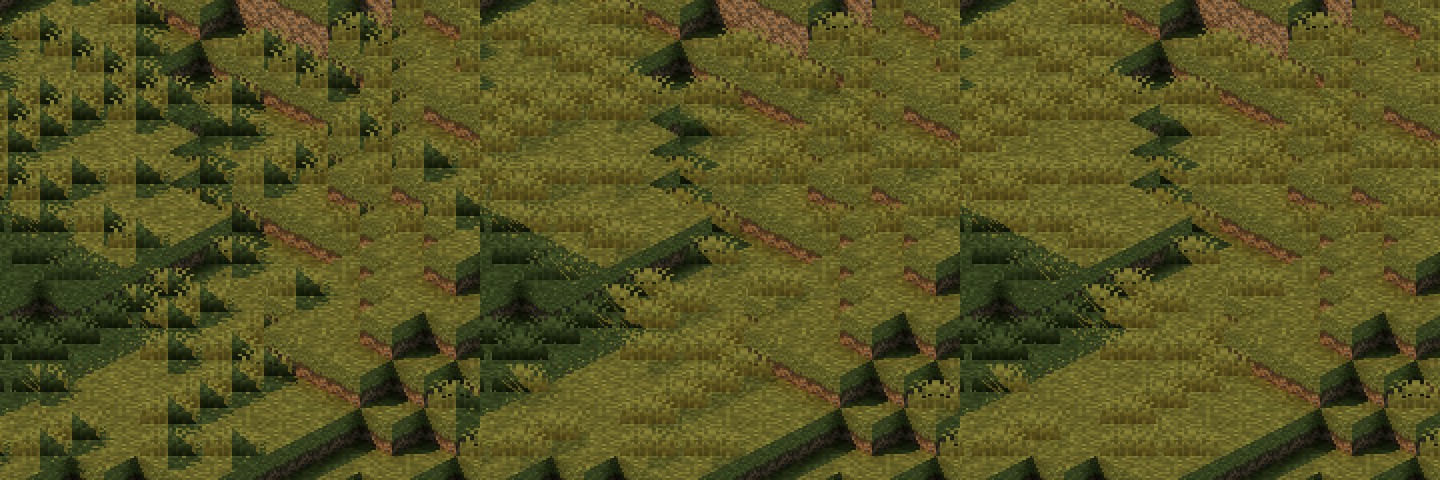
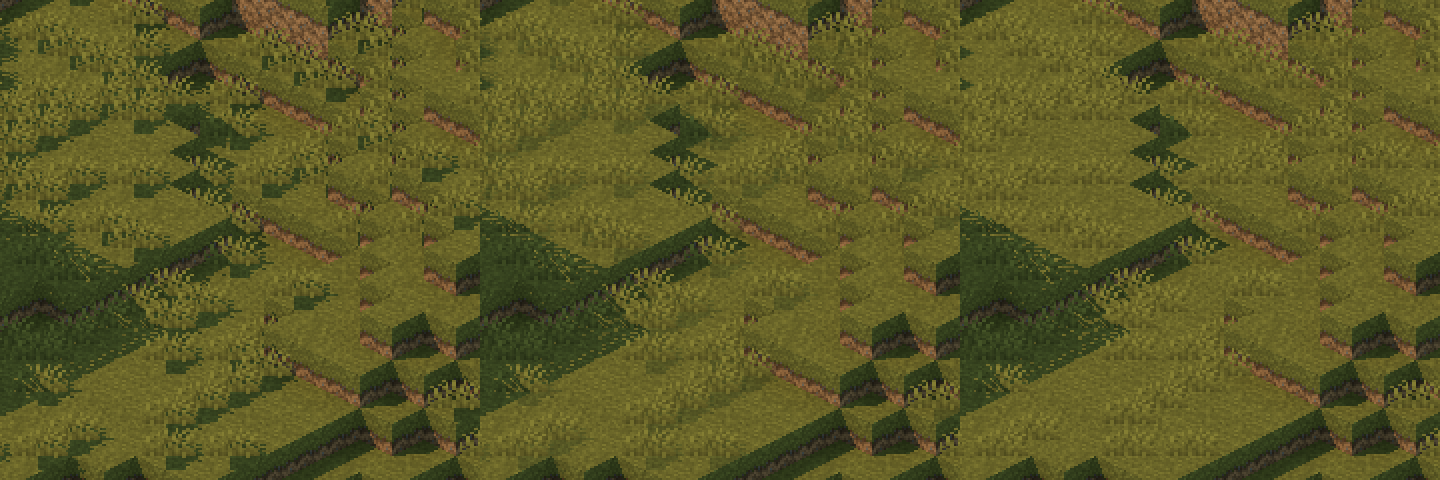
Bilder zu 0058 aus dem Renderer
Wärme nach Biom und Bodenpflanzen rendert jetzt der Renderer mit
Cinematic aus #73, statt des Prototyps zu #89: ein ignorierter Test in
kennzahlen.rs mit Szenen, Ausschnitten und Werten, ein zweiter Lauf
ändert kein Byte. Die Quelle als JSON entfällt. README und map.json
nennen den Stand von #73.

diff --git a/renderer/tests/kennzahlen.rs b/renderer/tests/kennzahlen.rs
@@ -1,20 +1,24 @@
 //! Die Ansichten der Testwelt, an denen 0058 abgestimmt ist, mit Cinematic
 //! und als Karte, dazu je Pixel, was die Kennzahlen des Looks brauchen: ob
 //! die Sonne ihn trifft, ob er leuchtet oder im Bloom liegt, ob seine
-//! vorderste Fläche deckt, ihr Block und ihre Seite. Braucht die Testwelt
-//! und die Assets, deshalb `#[ignore]`. Aufruf und Auswertung:
-//! docs/messungen/2026-10-03-look-am-renderer.md.
+//! vorderste Fläche deckt, ihr Block und ihre Seite. Dazu die Bilder zu
+//! 0058 in `docs/bilder`. Braucht die Testwelt und die Assets, deshalb
+//! `#[ignore]`. Aufruf und Auswertung:
+//! docs/messungen/2026-10-03-look-am-renderer.md; die Bilder:
+//! skills/doku-bilder-rendern/SKILL.md.
 
 use std::collections::HashMap;
 use std::path::{Path, PathBuf};
 
+use image::RgbaImage;
+use image::imageops::{FilterType, crop_imm, replace, resize};
 use rayon::prelude::*;
 use terranova_render::assets::Assets;
 use terranova_render::render::look::{LOOK, Look};
 use terranova_render::render::metatile::{Hdr, render_hdr_with};
 use terranova_render::render::{
-    BiomeTable, ChunkCache, Kamera, Projection, Richtung, ScreenRect, SpriteSet, render_area,
-    survey,
+    BiomeTable, ChunkCache, Kamera, Projection, Richtung, ScreenRect, SpriteSet, Survey,
+    encode_webp, render_area, shrink, survey,
 };
 use terranova_render::world::World;
 
@@ -45,13 +49,17 @@ fn ansichten(
     ]
 }
 
+fn wurzel() -> PathBuf {
+    PathBuf::from(
+        std::env::var("KENNZAHLEN_WURZEL")
+            .expect("KENNZAHLEN_WURZEL auf die Wurzel mit world und den Assets setzen"),
+    )
+}
+
 #[test]
 #[ignore]
 fn kennzahlen_der_ansichten() {
-    let wurzel = PathBuf::from(
-        std::env::var("KENNZAHLEN_WURZEL")
-            .expect("KENNZAHLEN_WURZEL auf die Wurzel mit world und den Assets setzen"),
-    );
+    let wurzel = wurzel();
     let aus = PathBuf::from(
         std::env::var("KENNZAHLEN_AUS").expect("KENNZAHLEN_AUS auf den Zielordner setzen"),
     );
@@ -69,6 +77,133 @@ fn kennzahlen_der_ansichten() {
         alle.par_iter()
             .for_each(|&(szene, ansicht)| schreibe(&wurzel, &aus, szene, ansicht));
     });
+}
+
+/// Die Bilder unter 0058: die Wärme nach Biom an Hügel und Schnee, die
+/// Bodenpflanzen an einer Wiese des Hügels, je 2:1 bei 32 aus `se`, mit
+/// der Mitte der Szene in der Bildmitte; Ausschnitte wie am Prototyp zu
+/// #89, als WebP verlustfrei.
+#[test]
+#[ignore]
+fn bilder_zu_0058() {
+    let wurzel = wurzel();
+    let ziel = Path::new(env!("CARGO_MANIFEST_DIR")).join("../docs/bilder");
+    let szene = |name: &str| {
+        let &(_, mitte) = SZENEN.iter().find(|(s, _)| *s == name).unwrap();
+        Szene::new(&wurzel, "2:1", 32, "se", ansichten(mitte)[0].4)
+    };
+    // Je Zeile die Karte, Weissabgleich 1 und nach Biom; 800 Pixel ab
+    // (400, 400), auf die Hälfte verkleinert wie die Pyramide.
+    let mut waerme = RgbaImage::new(1200, 800);
+    for (zeile, name) in ["huegel", "schnee"].into_iter().enumerate() {
+        let mut s = szene(name);
+        let looks = [
+            None,
+            Some(Look {
+                waerme: 0.0,
+                ..LOOK
+            }),
+            Some(LOOK),
+        ];
+        for (spalte, look) in looks.into_iter().enumerate() {
+            let teil = shrink(&crop_imm(&s.bild(look), 400, 400, 800, 800).to_image());
+            replace(&mut waerme, &teil, spalte as i64 * 400, zeile as i64 * 400);
+        }
+    }
+    std::fs::write(
+        ziel.join("cinematic-waerme.webp"),
+        encode_webp(&waerme).unwrap(),
+    )
+    .unwrap();
+    // Hart, weich mit 0,5 und ohne Sonnenschatten der Bodenpflanzen, nach
+    // Biom gewärmt; 240 Pixel ab (700, 700), zweifach vergrössert ohne
+    // Glättung.
+    let mut pflanzen = RgbaImage::new(1440, 480);
+    let mut s = szene("huegel");
+    for (spalte, p) in [0.0, 0.5, 1.0].into_iter().enumerate() {
+        let bild = s.bild(Some(Look {
+            pflanzen: p,
+            ..LOOK
+        }));
+        let teil = resize(
+            &crop_imm(&bild, 700, 700, 240, 240).to_image(),
+            480,
+            480,
+            FilterType::Nearest,
+        );
+        replace(&mut pflanzen, &teil, spalte as i64 * 480, 0);
+    }
+    std::fs::write(
+        ziel.join("cinematic-pflanzen.webp"),
+        encode_webp(&pflanzen).unwrap(),
+    )
+    .unwrap();
+}
+
+/// Eine Ansicht: Welt, Assets und Ausschnitt, wie `--render` mit `--center`
+/// und `--size`.
+struct Szene {
+    world: World,
+    assets: Assets,
+    projection: Projection,
+    rect: ScreenRect,
+    survey: Survey,
+    biome: BiomeTable,
+}
+
+impl Szene {
+    fn new(wurzel: &Path, kamera: &str, scale: u32, richtung: &str, mitte: [i32; 2]) -> Szene {
+        let world = World::open(&wurzel.join("world")).unwrap();
+        let mut assets =
+            Assets::open(vec![wurzel.join("vanilla-assets"), wurzel.join("assets")]).unwrap();
+        assets.load_data(&wurzel.join("vanilla-data")).unwrap();
+        assets.set_dimension(world.dimension());
+        let kamera = Kamera::parse(kamera).unwrap();
+        let projection =
+            Projection::mit_kamera(scale, kamera).aus(Richtung::parse(richtung, kamera).unwrap());
+        let rect = fenster(projection, mitte);
+        let survey = survey(&world, projection, Y_RANGE, Some(rect)).unwrap();
+        let biome = BiomeTable::new(assets.colors()).with(2, world.seed().unwrap());
+        Szene {
+            world,
+            assets,
+            projection,
+            rect,
+            survey,
+            biome,
+        }
+    }
+
+    /// Die Sprites mit `look`; ohne ist es die Karte.
+    fn tabelle(&mut self, look: Option<Look>) -> SpriteSet {
+        let mut sprites = SpriteSet::build_mit_licht(
+            &mut self.assets,
+            &self.survey.states,
+            self.projection,
+            None,
+            look,
+        )
+        .unwrap();
+        sprites
+            .add_entities(&mut self.assets, &self.survey.entities)
+            .unwrap();
+        sprites.set_biomes(self.biome.clone());
+        sprites
+    }
+
+    fn bild(&mut self, look: Option<Look>) -> RgbaImage {
+        let sprites = self.tabelle(look);
+        render_area(&self.world, &sprites, self.rect, Y_RANGE).unwrap()
+    }
+
+    fn hdr(&self, sprites: &SpriteSet) -> Hdr {
+        render_hdr_with(
+            &mut ChunkCache::new(&self.world, sprites),
+            self.rect,
+            Y_RANGE,
+        )
+        .unwrap()
+    }
 }
 
 /// Wie `--render` mit `--center` und `--size`.
@@ -89,48 +224,27 @@ fn schreibe(
     szene: &str,
     (name, kamera, scale, richtung, mitte): (&str, &str, u32, &str, [i32; 2]),
 ) {
-    let world = World::open(&wurzel.join("world")).unwrap();
-    let mut assets =
-        Assets::open(vec![wurzel.join("vanilla-assets"), wurzel.join("assets")]).unwrap();
-    assets.load_data(&wurzel.join("vanilla-data")).unwrap();
-    assets.set_dimension(world.dimension());
-    let kamera = Kamera::parse(kamera).unwrap();
-    let projection =
-        Projection::mit_kamera(scale, kamera).aus(Richtung::parse(richtung, kamera).unwrap());
-    let rect = fenster(projection, mitte);
-    let survey = survey(&world, projection, Y_RANGE, Some(rect)).unwrap();
-    let biome = BiomeTable::new(assets.colors()).with(2, world.seed().unwrap());
-    let mut tabelle = |look: Option<Look>| {
-        let mut sprites =
-            SpriteSet::build_mit_licht(&mut assets, &survey.states, projection, None, look)
-                .unwrap();
-        sprites.add_entities(&mut assets, &survey.entities).unwrap();
-        sprites.set_biomes(biome.clone());
-        sprites
-    };
+    let mut s = Szene::new(wurzel, kamera, scale, richtung, mitte);
     let datei = |endung: &str| aus.join(format!("{szene}-{name}{endung}"));
-    render_area(&world, &tabelle(None), rect, Y_RANGE)
-        .unwrap()
-        .save(datei("-karte.png"))
-        .unwrap();
-    let kino = tabelle(Some(LOOK));
-    render_area(&world, &kino, rect, Y_RANGE)
+    s.bild(None).save(datei("-karte.png")).unwrap();
+    let kino = s.tabelle(Some(LOOK));
+    render_area(&s.world, &kino, s.rect, Y_RANGE)
         .unwrap()
         .save(datei(".png"))
         .unwrap();
-    let hdr = |sprites: &SpriteSet| {
-        render_hdr_with(&mut ChunkCache::new(&world, sprites), rect, Y_RANGE).unwrap()
-    };
-    let mit = hdr(&kino);
-    let ohne_sonne = hdr(&tabelle(Some(Look { sonne: 0.0, ..LOOK })));
-    let ohne_schatten = hdr(&tabelle(Some(Look {
+    let mit = s.hdr(&kino);
+    let ohne_sonne = s.tabelle(Some(Look { sonne: 0.0, ..LOOK }));
+    let ohne_sonne = s.hdr(&ohne_sonne);
+    let ohne_schatten = s.tabelle(Some(Look {
         sonne_weite: -1.0,
         ..LOOK
-    })));
+    }));
+    let ohne_schatten = s.hdr(&ohne_schatten);
+    let (projection, rect) = (s.projection, s.rect);
     let k = kino.kino().unwrap();
     let bloom = k.bloom(&mit.leuchten, &mit.waerme, GROESSE as usize, scale);
     let lum = |c: &[f32]| 0.2126 * c[0] + 0.7152 * c[1] + 0.0722 * c[2];
-    let mut bloeck = Bloecke::new(&world);
+    let mut bloeck = Bloecke::new(&s.world);
     let mut familien: Vec<String> = Vec::new();
     let mut index: HashMap<String, u32> = HashMap::new();
     let (mut sonne, mut seite, mut deckt, mut leuchtet, mut im_bloom, mut familie) = (

diff --git a/skills/doku-bilder-rendern/SKILL.md b/skills/doku-bilder-rendern/SKILL.md
@@ -29,7 +29,7 @@ Testwelt liegt unter `./world`, die Assets wie in
    | `genordet.webp` | dasselbe Dorf in `top-north` und `north-45` nebeneinander, ebenso, `GENORDET` |
    | `web/public/vorschau.jpg`, `favicon.png`, `apple-touch-icon.png` | [`web-bilder.py`](web-bilder.py): die Mitte von `welt.webp` auf 1200 × 630, die Icons aus der Ebene „Insel“ des Banners, siehe Schritt 3 |
    | `sprites.png` | der Befehl in [`docs/benutzung/schalter.md`](../../docs/benutzung/schalter.md), „Sprites rastern: `--sprite`“ |
-   | `cinematic-waerme.webp`, `cinematic-pflanzen.webp` | nicht aus diesem Skript: aus dem Prototyp zu #89, der nicht im Repository liegt; Szenen, Ausschnitte und Werte in [`quellen/cinematic-look.json`](../../docs/bilder/quellen/cinematic-look.json). Mit #73 aus dem Renderer neu |
+   | `cinematic-waerme.webp`, `cinematic-pflanzen.webp` | nicht aus diesem Skript: Der Test `bilder_zu_0058` in [`renderer/tests/kennzahlen.rs`](../../renderer/tests/kennzahlen.rs) schreibt sie, mit Szenen, Ausschnitten und Werten: `KENNZAHLEN_WURZEL="$PWD" cargo test --release --manifest-path renderer/Cargo.toml --test kennzahlen bilder_zu_0058 -- --ignored` |
 
    Liegen `world/` und die Assets nicht in der Wurzel, nennt ein zweites
    Argument ihren Ordner.

diff --git a/docs/entscheidungen/0058-look-von-cinematic.md b/docs/entscheidungen/0058-look-von-cinematic.md
@@ -94,9 +94,13 @@ Schnee von oben und schräg von Norden und das Dorf aus `n`; siehe
 ![Eine Wiese der Savanne: Bodenpflanzen mit hartem, mit weichem und ohne Sonnenschatten](../bilder/cinematic-pflanzen.webp)
 
 - **Bild darunter:** eine Wiese der Savanne, zweifach vergrössert.
-  Bodenpflanzen mit hartem Schatten, mit weichem (0,5) und ohne.
-- **Herkunft:** Beide Bilder stammen aus dem Prototyp zu #89. Quelle in
-  [`cinematic-look.json`](../bilder/quellen/cinematic-look.json).
+  Bodenpflanzen mit hartem Schatten (`pflanzen` 0), mit weichem (0,5) und
+  ohne (1).
+- **Herkunft:** Beide Bilder rendert der Renderer mit Cinematic aus #73,
+  der Test `bilder_zu_0058` in
+  [`renderer/tests/kennzahlen.rs`](../../renderer/tests/kennzahlen.rs).
+  Zur Entscheidung lagen dieselben Ausschnitte aus dem Prototyp zu #89
+  vor.
 
 ## Verworfene Alternativen
 

diff --git a/README.md b/README.md
@@ -116,7 +116,8 @@ Alle Schalter: [Schalter und Beispiele](docs/benutzung/schalter.md).
 - Truhen, Banner, Köpfe, Krüge und die übrigen Blockentities aus den
   Modellen des Spiels, mit Bannermustern und Scherben.
 - Cinematic mit `--cinematic`: dieselbe Karte im Licht des Spiels in HDR,
-  Phase 1, siehe [Cinematic](docs/renderer/cinematic.md).
+  mit Sonne und Schatten, Wasser, Leuchten, Wärme nach Biom und Bloom,
+  siehe [Cinematic](docs/renderer/cinematic.md).
 - Noch nicht: Text auf Schildern und Gegenstände in Blöcken, weiche
   Beleuchtung für Flächen im Innern eines Blocks, etwa auf Schneedecken.
 

diff --git a/docs/benutzung/map-json.md b/docs/benutzung/map-json.md
@@ -330,7 +330,8 @@ vor #72 und zeigt die Karte. Einen anderen Wert nimmt kein Lauf an.
     bei einer Farbe drei Zahlen.
   - Zuletzt `verfahren`, ein Nullbyte und `VERFAHREN` als u32 in Little
     Endian: der Stand des Verfahrens. Ändert sich das Bild bei gleichen
-    Werten, etwa mit der Sonne in #73, steigt er, und mit ihm der
+    Werten, etwa in #73 mit der Farbe des Himmels über das Quadrat der
+    Biome, steigt er, und mit ihm der
     Fingerabdruck.
   - `Look::werte` zerlegt `Look` ganz: Ein neues Feld kompiliert erst, wenn
     es im Fingerabdruck steht.
